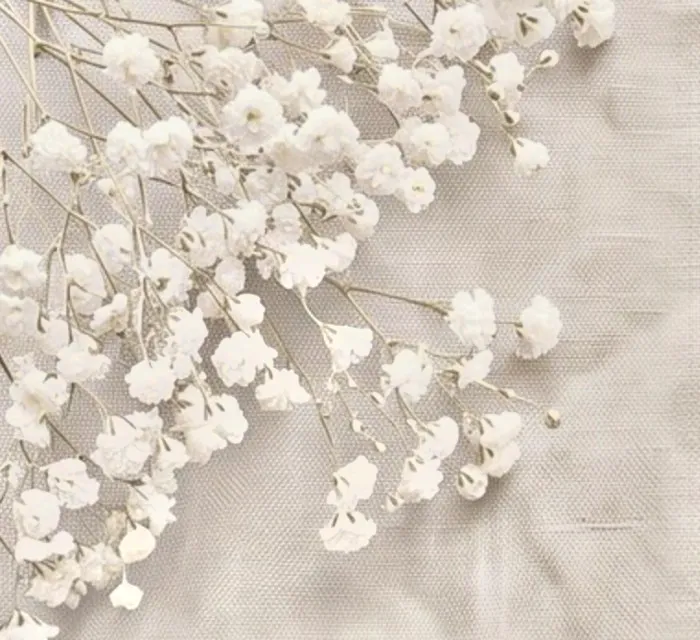
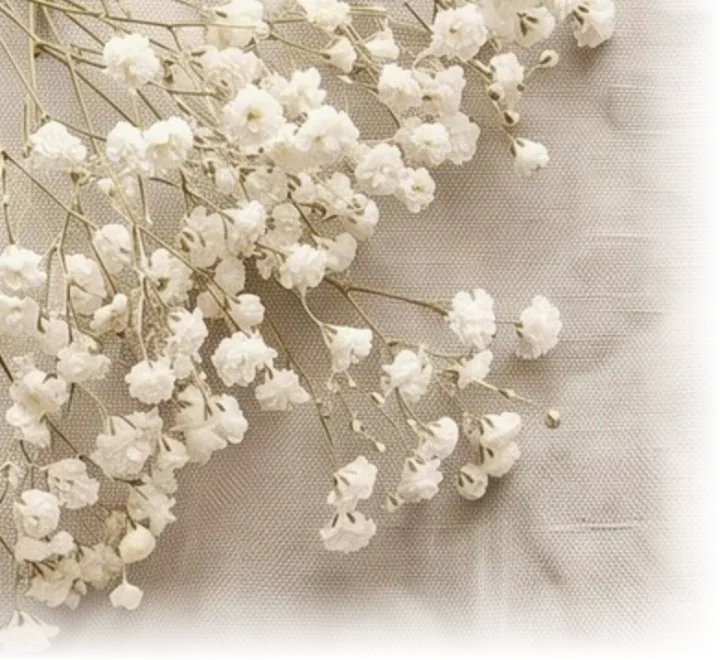
RSVP page v2: tablecloth hero only, bigger date & timer, calendar buttons, cream form on cloth grey
Claude-Session: https://claude.ai/code/session_01UUGnTPbvLskfuD8Xfb7C9e

diff --git a/src/guest-rivka.html b/src/guest-rivka.html
@@ -4,139 +4,119 @@
 <meta charset="utf-8">
 <meta name="viewport" content="width=device-width, initial-scale=1, viewport-fit=cover">
 <meta name="robots" content="noindex"><!--OG-->
-<meta name="theme-color" content="#D6CCC1">
+<meta name="theme-color" content="#C7BDB2">
 <title>מענדי ורבקה · אישור הגעה</title>
 <link rel="preconnect" href="https://fonts.googleapis.com">
 <link rel="preconnect" href="https://fonts.gstatic.com" crossorigin>
 <link rel="stylesheet" href="https://fonts.googleapis.com/css2?family=Frank+Ruhl+Libre:wght@300;400;500;700&display=swap">
-<link rel="preload" as="image" href="/img/logo.webp">
+<link rel="preload" as="image" href="/img/names.webp">
 <style>
 :root{
-  --linen:#D6CCC1;      /* בד הפשתן מההזמנה */
+  --linen:#C7BDB2;      /* המפה מההזמנה */
+  --linen-soft:#D4CBC1;
   --paper:#FAF8F4;      /* נייר ההזמנה */
-  --ink:#47332A;        /* דיו חום */
+  --cream:#F5EFE4;      /* שמנת */
+  --ink:#47332A;
   --ink-deep:#2C1F16;
   --soft:#7D6B5D;
   --line:#DCD1C4;
-  --press:#EFE9E1;
+  --press:#EDE5D9;
   --err:#9B2C2C;
   --serif:'Frank Ruhl Libre','David Libre',Georgia,serif;
 }
 *{box-sizing:border-box}
 html,body{margin:0}
 [hidden]{display:none!important}
-body{
-  font-family:var(--serif);color:var(--ink);line-height:1.6;
-  background:var(--linen) url(/img/linen.webp) center top/640px auto repeat;
-  -webkit-font-smoothing:antialiased;min-height:100vh;overflow-x:hidden;
-}
+body{font-family:var(--serif);color:var(--ink);line-height:1.6;background:var(--paper);-webkit-font-smoothing:antialiased;overflow-x:hidden}
 button,input,textarea{font-family:inherit;color:inherit}
 :focus-visible{outline:2px solid var(--ink);outline-offset:3px}
 
-/* ---------- hero ---------- */
-.hero{position:relative;padding:56px 20px 28px;text-align:center;isolation:isolate}
-.bh{position:absolute;top:14px;right:18px;font-size:14px;color:var(--ink-deep);margin:0;letter-spacing:.02em}
-.flowers{position:absolute;top:0;left:0;width:min(58vw,380px);aspect-ratio:700/640;z-index:-1;
-  background:url(/img/flowers.webp) left top/cover no-repeat;
-  -webkit-mask-image:radial-gradient(ellipse 100% 100% at 0 0,#000 55%,transparent 98%);
-          mask-image:radial-gradient(ellipse 100% 100% at 0 0,#000 55%,transparent 98%)}
-.quote{display:block;width:min(78vw,440px);height:auto;margin:clamp(70px,22vw,120px) auto 0;margin-inline-start:auto;margin-inline-end:max(0px,calc(50% - 220px));opacity:.95}
-.logo{display:block;width:min(86vw,520px);height:auto;margin:clamp(34px,9vw,60px) auto 0;
-  filter:drop-shadow(0 1px 1px rgba(92,70,54,.55)) drop-shadow(0 3px 12px rgba(92,70,54,.28))}
-.dateline{margin:18px 0 0;font-size:17px;color:var(--ink);letter-spacing:.01em}
-.dateline small{display:block;font-size:14px;color:var(--soft);margin-top:2px}
+/* ---------- hero: the tablecloth ---------- */
+.hero{position:relative;isolation:isolate;display:flex;flex-direction:column;align-items:center;justify-content:center;text-align:center;
+  padding:clamp(110px,30vw,150px) 5vw clamp(56px,12vw,100px);
+  background:var(--linen) url(/img/linen.webp) center top/clamp(420px,60vw,900px) auto repeat}
+.bh{position:absolute;top:clamp(12px,2vw,22px);right:clamp(14px,2.4vw,30px);margin:0;font-size:clamp(13px,1.4vw,18px);color:var(--ink-deep)}
+.flowers{position:absolute;top:0;left:0;width:clamp(240px,42vw,620px);aspect-ratio:720/660;z-index:-1;background:url(/img/flowers.webp) left top/contain no-repeat;pointer-events:none}
+.quote{display:block;width:clamp(240px,62vw,620px);height:auto;margin:0 auto}
+.names{display:block;width:clamp(280px,84vw,900px);height:auto;margin:clamp(26px,6vw,70px) auto 0;
+  filter:drop-shadow(0 1px 1px rgba(80,60,46,.55)) drop-shadow(0 4px 16px rgba(80,60,46,.3))}
+.date{margin:clamp(22px,5vw,56px) 0 0;font-size:clamp(28px,7.4vw,72px);font-weight:500;line-height:1.15;color:var(--ink-deep)}
+.greg{margin:clamp(4px,1vw,12px) 0 0;font-size:clamp(18px,4.4vw,36px);font-weight:300;color:var(--ink);letter-spacing:.04em}
+.count{display:flex;justify-content:center;gap:clamp(10px,2.6vw,28px);margin-top:clamp(26px,6vw,64px)}
+.count div{width:clamp(88px,26vw,190px);padding:clamp(12px,2.6vw,26px) 4px clamp(10px,2vw,20px);background:rgba(250,248,244,.62);border:1px solid rgba(255,255,255,.75);border-radius:clamp(14px,2.4vw,26px);box-shadow:0 2px 10px rgba(71,51,38,.08)}
+.count b{display:block;font-size:clamp(44px,13vw,120px);font-weight:300;line-height:1;font-variant-numeric:tabular-nums;color:var(--ink-deep)}
+.count span{display:block;margin-top:clamp(4px,1vw,10px);font-size:clamp(14px,3.6vw,24px);color:var(--soft)}
 
-.count{display:flex;justify-content:center;gap:10px;margin:22px auto 0}
-.count div{min-width:76px;padding:10px 8px 8px;background:rgba(250,248,244,.72);border:1px solid rgba(255,255,255,.7);border-radius:14px;box-shadow:0 1px 2px rgba(71,51,38,.06)}
-.count b{display:block;font-size:30px;font-weight:400;line-height:1.05;font-variant-numeric:tabular-nums}
-.count span{font-size:13px;color:var(--soft)}
+/* ---------- schedule on paper ---------- */
+.sec{padding:clamp(56px,10vw,120px) 6vw}
+.sec-in{max-width:760px;margin:0 auto;text-align:center}
+.sec h2{margin:0;font-size:clamp(30px,7vw,56px);font-weight:700;color:var(--ink-deep);line-height:1.15}
+.sec .sdate{margin:clamp(8px,1.6vw,16px) 0 0;font-size:clamp(20px,4.8vw,34px);font-weight:500}
+.sec .sgreg{margin:2px 0 0;font-size:clamp(15px,3.4vw,22px);color:var(--soft)}
+.ev{margin-top:clamp(40px,8vw,72px)}
+.ev::before{content:'';display:block;width:clamp(60px,14vw,110px);height:1px;background:var(--ink);opacity:.35;margin:0 auto clamp(40px,8vw,72px)}
+.ev h3{margin:0;font-size:clamp(22px,5.4vw,36px);font-weight:700;color:var(--ink-deep)}
+.ev .when{margin:6px 0 0;font-size:clamp(16px,3.8vw,24px)}
+.ev .time{font-size:clamp(46px,13vw,96px);font-weight:300;line-height:1.05;margin:clamp(4px,1vw,10px) 0;font-variant-numeric:tabular-nums}
+.ev .where{margin:6px 0 0;font-size:clamp(17px,4vw,26px)}
+.ev .where span{display:block;color:var(--soft);font-size:clamp(15px,3.5vw,22px)}
+.acts{display:flex;justify-content:center;gap:10px;margin-top:clamp(16px,3vw,26px);flex-wrap:wrap}
+.acts a{display:inline-flex;align-items:center;justify-content:center;gap:8px;min-height:48px;min-width:clamp(140px,36vw,200px);padding:0 20px;border-radius:999px;text-decoration:none;font-size:clamp(16px,3.6vw,19px);border:1px solid var(--ink);color:var(--ink)}
+.acts a.solid{background:var(--ink);color:var(--paper)}
+.acts svg{flex:none}
 
-/* ---------- paper cards ---------- */
-.wrap{max-width:600px;margin:0 auto;padding:8px 16px 0}
-.paper{position:relative;background:var(--paper);border-radius:6px;padding:46px 26px 40px;margin-top:22px;
-  box-shadow:0 1px 1px rgba(71,51,38,.05),0 14px 34px -12px rgba(71,51,38,.28)}
-.paper > *{position:relative;z-index:1}
-.paper::before,.paper::after{content:'';position:absolute;z-index:0;width:96px;height:88px;background:url(/img/rose.webp) center/cover no-repeat;opacity:.85;pointer-events:none}
-.paper::before{top:8px;left:8px;transform:scaleX(-1)}
-.paper::after{bottom:8px;right:8px;transform:scaleY(-1)}
-.paper h2{font-size:25px;font-weight:700;color:var(--ink-deep);text-align:center;margin:0 0 4px;letter-spacing:.01em}
-.paper .lead{text-align:center;margin:0 0 22px;color:var(--soft);font-size:16px}
-
-/* schedule */
-.ev{text-align:center;padding:0 6px}
-.ev + .ev{margin-top:26px}
-.ev + .ev::before{content:'';display:block;width:84px;height:1px;background:var(--ink);opacity:.35;margin:0 auto 26px}
-.ev h3{margin:0;font-size:20px;font-weight:700;color:var(--ink-deep)}
-.ev .when{margin:6px 0 0;font-size:16px}
-.ev .time{display:inline-block;font-size:30px;font-weight:300;line-height:1.1;margin:4px 0 2px;font-variant-numeric:tabular-nums;letter-spacing:.02em}
-.ev .where{margin:4px 0 0;font-size:16px;color:var(--ink)}
-.ev .where span{display:block;color:var(--soft);font-size:15px}
-.nav{display:flex;justify-content:center;gap:8px;margin-top:12px;flex-wrap:wrap}
-.nav a{display:inline-flex;align-items:center;min-height:40px;padding:0 16px;border:1px solid var(--line);border-radius:999px;color:var(--ink);text-decoration:none;font-size:15px;background:#fff}
-.nav a:active{background:var(--press)}
-
-/* rsvp */
-.hi{font-size:25px;font-weight:700;color:var(--ink-deep);text-align:center;margin:0}
-.sub{text-align:center;margin:2px 0 22px;color:var(--soft);font-size:16px}
-.qlab{display:block;font-size:16px;font-weight:500;margin:0 0 8px;color:var(--ink-deep)}
-.who3{display:grid;grid-template-columns:1fr 1fr;gap:8px;margin-bottom:18px}
-.opts{display:grid;grid-template-columns:repeat(3,minmax(0,1fr));gap:8px}
-@media (max-width:460px){.opts{grid-template-columns:1fr}.opt{min-height:52px}}
-.opt{min-height:54px;border:1px solid var(--line);background:#fff;border-radius:12px;font-size:17px;cursor:pointer;padding:6px 4px;line-height:1.2;transition:background-color .15s,color .15s,border-color .15s}
+/* ---------- rsvp on the cloth grey ---------- */
+.rsvp{background:var(--linen-soft);padding:clamp(56px,10vw,120px) 5vw}
+.card{max-width:640px;margin:0 auto;background:var(--cream);border-radius:clamp(18px,3vw,28px);padding:clamp(30px,6vw,56px) clamp(20px,5vw,52px);box-shadow:0 18px 44px -20px rgba(71,51,38,.35)}
+.hi{font-size:clamp(28px,6.4vw,46px);font-weight:700;color:var(--ink-deep);text-align:center;margin:0;line-height:1.2}
+.sub{text-align:center;margin:6px 0 clamp(22px,4vw,32px);color:var(--soft);font-size:clamp(16px,3.8vw,20px)}
+.qlab{display:block;font-size:clamp(16px,3.8vw,19px);font-weight:500;margin:0 0 10px;color:var(--ink-deep)}
+.who3{display:grid;grid-template-columns:1fr 1fr;gap:10px;margin-bottom:22px}
+.opts{display:grid;grid-template-columns:repeat(3,minmax(0,1fr));gap:10px}
+@media (max-width:480px){.opts{grid-template-columns:1fr}}
+.opt{min-height:56px;border:1px solid var(--line);background:#fff;border-radius:14px;font-size:clamp(17px,4vw,20px);cursor:pointer;padding:6px 8px;line-height:1.2;transition:background-color .15s,color .15s,border-color .15s}
 .opt[aria-pressed="true"]{background:var(--ink);border-color:var(--ink);color:var(--paper)}
-.opt:active{transform:scale(.98)}
-input.nm{width:100%;font-size:17px;border:1px solid var(--line);border-radius:12px;padding:14px;background:#fff;margin-bottom:18px}
+input.nm{width:100%;font-size:18px;border:1px solid var(--line);border-radius:14px;padding:15px;background:#fff;margin-bottom:22px}
 input.nm::placeholder,textarea::placeholder{color:#AA9C90}
-.ppl{display:grid;grid-template-columns:1fr 1fr;gap:10px;margin-top:16px}
-.ppl > div{background:var(--press);border-radius:14px;padding:12px 14px}
-.lab{display:block;font-size:15px;color:var(--soft);margin-bottom:6px}
+.ppl{display:grid;grid-template-columns:1fr 1fr;gap:10px;margin-top:18px}
+.ppl > div{background:var(--press);border-radius:16px;padding:12px 14px}
+.lab{display:block;font-size:16px;color:var(--soft);margin-bottom:6px}
 .step{display:flex;align-items:center;justify-content:space-between}
-.step button{width:44px;height:44px;border-radius:50%;border:1px solid var(--line);background:#fff;font-size:22px;line-height:1;cursor:pointer;color:var(--ink)}
+.step button{width:46px;height:46px;border-radius:50%;border:1px solid var(--line);background:#fff;font-size:22px;line-height:1;cursor:pointer;color:var(--ink)}
 .step button:disabled{opacity:.35;cursor:default}
-.step output{font-size:26px;min-width:2ch;text-align:center;font-variant-numeric:tabular-nums}
-label.f{display:block;margin:22px 0 8px;font-size:16px;color:var(--ink-deep)}
+.step output{font-size:28px;min-width:2ch;text-align:center;font-variant-numeric:tabular-nums}
+label.f{display:block;margin:24px 0 10px;font-size:clamp(16px,3.8vw,19px);color:var(--ink-deep)}
 label.f small,.sub small{color:var(--soft);font-weight:400}
-textarea{width:100%;font-size:16px;border:1px solid var(--line);border-radius:12px;padding:12px 14px;background:#fff;resize:vertical;min-height:84px}
-.send{width:100%;min-height:56px;margin-top:22px;border:none;border-radius:999px;background:var(--ink);color:var(--paper);font-size:19px;font-weight:500;cursor:pointer;letter-spacing:.02em}
+textarea{width:100%;font-size:17px;border:1px solid var(--line);border-radius:14px;padding:12px 14px;background:#fff;resize:vertical;min-height:90px}
+.send{width:100%;min-height:58px;margin-top:24px;border:none;border-radius:999px;background:var(--ink);color:var(--paper);font-size:20px;font-weight:500;cursor:pointer;letter-spacing:.02em}
 .send:disabled{background:#B9ACA0;cursor:default}
 .err{color:var(--err);text-align:center;min-height:1.2em;margin:10px 0 0;font-size:15px}
 .done{text-align:center;padding:6px 0}
-.ok{width:62px;height:62px;border-radius:50%;margin:0 auto 12px;display:flex;align-items:center;justify-content:center;border:1px solid var(--ink)}
-.done h3{font-size:24px;font-weight:700;margin:0 0 6px;color:var(--ink-deep)}
-.done p{margin:0;color:var(--soft);font-size:17px}
-.link{background:none;border:none;color:var(--ink);text-decoration:underline;text-underline-offset:4px;font-size:16px;margin-top:16px;cursor:pointer;min-height:44px}
+.ok{width:64px;height:64px;border-radius:50%;margin:0 auto 14px;display:flex;align-items:center;justify-content:center;border:1px solid var(--ink)}
+.done h3{font-size:clamp(24px,5.6vw,34px);font-weight:700;margin:0 0 6px;color:var(--ink-deep)}
+.done p{margin:0;color:var(--soft);font-size:18px}
+.link{background:none;border:none;color:var(--ink);text-decoration:underline;text-underline-offset:4px;font-size:17px;margin-top:16px;cursor:pointer;min-height:44px}
 
-/* invitation thumb */
-.invbtn{display:block;width:100%;margin-top:22px;border:none;padding:0;background:none;cursor:zoom-in;text-align:center}
-.invbtn img{display:block;width:100%;height:auto;border-radius:6px;box-shadow:0 14px 34px -12px rgba(71,51,38,.35)}
-.invbtn span{display:inline-block;margin-top:10px;font-size:16px;color:var(--ink);text-decoration:underline;text-underline-offset:4px}
+/* invitation + footer on paper */
+.invsec{padding:clamp(56px,10vw,110px) 6vw 0;text-align:center}
+.invbtn{display:block;width:100%;max-width:560px;margin:0 auto;border:none;padding:0;background:none;cursor:zoom-in}
+.invbtn img{display:block;width:100%;height:auto;border-radius:8px;box-shadow:0 16px 40px -16px rgba(71,51,38,.4)}
+.invbtn span{display:inline-block;margin-top:14px;font-size:clamp(16px,3.8vw,20px);color:var(--ink);text-decoration:underline;text-underline-offset:4px}
+.foot{text-align:center;padding:clamp(48px,9vw,90px) 6vw clamp(56px,10vw,100px)}
+.parents{margin:0;font-size:clamp(15px,3.6vw,19px);color:var(--soft)}
+.parents b{display:block;font-weight:500;color:var(--ink);font-size:clamp(16px,3.9vw,21px);margin-top:4px}
+.yechi{margin:clamp(24px,5vw,40px) auto 0;max-width:620px;text-wrap:balance;font-size:clamp(20px,5.4vw,34px);font-weight:700;color:var(--ink-deep);line-height:1.35}
 
-/* footer */
-.foot{position:relative;text-align:center;padding:40px 20px 64px;overflow:hidden}
-.parents{margin:0;font-size:15px;color:var(--soft)}
-.parents b{display:block;font-weight:500;color:var(--ink);font-size:16px;margin-top:4px}
-.yechi{margin:26px auto 0;max-width:460px;text-wrap:balance;font-size:clamp(18px,5vw,26px);font-weight:700;color:var(--ink-deep);line-height:1.35}
-.ribbon{position:absolute;bottom:-10px;left:-30px;width:min(44vw,240px);aspect-ratio:710/540;z-index:-1;opacity:.95;
-  background:url(/img/ribbon.webp) center/cover no-repeat;
-  -webkit-mask-image:radial-gradient(ellipse 70% 70% at 50% 55%,#000 50%,transparent 100%);
-          mask-image:radial-gradient(ellipse 70% 70% at 50% 55%,#000 50%,transparent 100%)}
-.foot{isolation:isolate}
-
-/* lightbox */
 .lb{position:fixed;inset:0;z-index:50;background:rgba(36,26,19,.92);display:flex;align-items:center;justify-content:center;padding:16px;cursor:zoom-out}
 .lb img{max-width:100%;max-height:100%;border-radius:4px}
 .lb button{position:absolute;top:calc(12px + env(safe-area-inset-top));right:12px;min-height:44px;padding:0 16px;border-radius:999px;border:none;background:rgba(255,255,255,.14);color:#fff;font-size:16px;cursor:pointer}
 
-/* entrance */
+@media (min-width:900px){.hero{min-height:100svh;padding-top:clamp(70px,8vw,120px)}}
 @media (prefers-reduced-motion:no-preference){
-  .logo{animation:rise 1.1s cubic-bezier(.2,.7,.2,1) .15s both}
-  .quote{animation:fade 1.2s ease .05s both}
-  @keyframes rise{from{opacity:0;transform:translateY(10px)}to{opacity:1;transform:none}}
+  .names{animation:rise 1.1s cubic-bezier(.2,.7,.2,1) .2s both}
+  .quote{animation:fade 1.2s ease both}
+  @keyframes rise{from{opacity:0;transform:translateY(12px)}to{opacity:1;transform:none}}
   @keyframes fade{from{opacity:0}to{opacity:1}}
-}
-@media (min-width:700px){
-  .hero{padding-top:70px}
-  .paper{padding:56px 48px 48px}
 }
 </style>
 </head>
@@ -145,50 +125,52 @@ textarea{width:100%;font-size:16px;border:1px solid var(--line);border-radius:12
   <p class="bh">ב״ה</p>
   <div class="flowers" aria-hidden="true"></div>
   <img class="quote" src="/img/quote.webp" alt="ברכה בכתב יד: צדי׳ טוב יהי׳ הבנין בנין עדי עד על יסודי התורה והמצוה בחיים מאושרים" width="1088" height="213">
-  <h1 style="margin:0"><img class="logo" src="/img/logo.webp" alt="מענדי ורבקה · י״ט טבת · בית זלטא כפר חב״ד" width="860" height="246"></h1>
-  <p class="dateline">יום שלישי, י״ט טבת ה׳תשפ״ז<small>29 בדצמבר 2026</small></p>
+  <h1 style="margin:0"><img class="names" src="/img/names.webp" alt="מענדי ורבקה" width="860" height="168"></h1>
+  <p class="date">יום שלישי, י״ט טבת ה׳תשפ״ז</p>
+  <p class="greg">29.12.2026</p>
   <div class="count" id="count" hidden aria-label="ספירה לאחור לחתונה">
     <div><b id="cd">0</b><span>ימים</span></div><div><b id="ch">0</b><span>שעות</span></div><div><b id="cm">0</b><span>דקות</span></div>
   </div>
-  <!-- fields the shared script fills; the design above is fixed -->
   <div hidden><span id="names"></span><span id="date"></span><span id="greg"></span><p id="msg"></p>
     <div id="schedBox"><div id="sched"></div></div><div id="venueBox"><b id="vn"></b><span id="va"></span><a id="waze"></a><a id="gmaps"></a></div></div>
 </header>
 
-<main class="wrap">
-  <section class="paper" aria-labelledby="schedT">
+<section class="sec" aria-labelledby="schedT">
+  <div class="sec-in">
     <h2 id="schedT">סדר האירועים</h2>
-    <p class="lead">בשעה טובה ומוצלחת</p>
+    <p class="sdate">יום שלישי, י״ט טבת ה׳תשפ״ז</p>
+    <p class="sgreg">29 בדצמבר 2026</p>
+
+    <div class="ev">
+      <h3>קבלת הפנים</h3>
+      <div class="time">16:45</div>
+      <p class="where">ישיבת ״תומכי תמימים״ ליובאוויטש<span>רח׳ טיבוביץ׳ 4, ראשון לציון</span></p>
+      <div class="acts">
+        <a class="solid" href="https://waze.com/ul?q=%D7%98%D7%99%D7%91%D7%95%D7%91%D7%99%D7%A5%204%20%D7%A8%D7%90%D7%A9%D7%95%D7%9F%20%D7%9C%D7%A6%D7%99%D7%95%D7%9F&navigate=yes" target="_blank" rel="noopener"><svg width="18" height="18" viewBox="0 0 24 24" fill="none" stroke="currentColor" stroke-width="1.6" stroke-linecap="round" stroke-linejoin="round" aria-hidden="true"><path d="M12 21s-7-6.2-7-11.5A7 7 0 0 1 19 9.5C19 14.8 12 21 12 21z"/><circle cx="12" cy="9.5" r="2.5"/></svg>ניווט ב-Waze</a>
+        <a href="/cal/kabbalat-panim.ics"><svg width="18" height="18" viewBox="0 0 24 24" fill="none" stroke="currentColor" stroke-width="1.6" stroke-linecap="round" aria-hidden="true"><rect x="3.5" y="5" width="17" height="15.5" rx="2.5"/><path d="M3.5 10h17M8 3v4M16 3v4"/></svg>שמירה ביומן</a>
+      </div>
+    </div>
+
+    <div class="ev">
+      <h3>החופה וסעודת החתונה</h3>
+      <div class="time">18:30</div>
+      <p class="where">אולמי ״בית זלטא״<span>כפר חב״ד ב׳</span></p>
+      <div class="acts">
+        <a class="solid" href="https://waze.com/ul?q=%D7%91%D7%99%D7%AA%20%D7%96%D7%9C%D7%98%D7%90%20%D7%9B%D7%A4%D7%A8%20%D7%97%D7%91%D7%93&navigate=yes" target="_blank" rel="noopener"><svg width="18" height="18" viewBox="0 0 24 24" fill="none" stroke="currentColor" stroke-width="1.6" stroke-linecap="round" stroke-linejoin="round" aria-hidden="true"><path d="M12 21s-7-6.2-7-11.5A7 7 0 0 1 19 9.5C19 14.8 12 21 12 21z"/><circle cx="12" cy="9.5" r="2.5"/></svg>ניווט ב-Waze</a>
+        <a href="/cal/chuppah.ics"><svg width="18" height="18" viewBox="0 0 24 24" fill="none" stroke="currentColor" stroke-width="1.6" stroke-linecap="round" aria-hidden="true"><rect x="3.5" y="5" width="17" height="15.5" rx="2.5"/><path d="M3.5 10h17M8 3v4M16 3v4"/></svg>שמירה ביומן</a>
+      </div>
+    </div>
 
     <div class="ev">
       <h3>העליה לתורה</h3>
       <p class="when">שבת קודש פרשת ויחי, ט״ז טבת</p>
       <p class="where">בית הכנסת ובית המדרש של הוד כ״ק אדמו״ר שליט״א מלך המשיח<span>770 איסטערן פארקוויי, ברוקלין נ.י.</span></p>
     </div>
+  </div>
+</section>
 
-    <div class="ev">
-      <h3>קבלת הפנים</h3>
-      <div class="time">16:45</div>
-      <p class="where">ישיבת ״תומכי תמימים״ ליובאוויטש<span>רח׳ טיבוביץ׳ 4, ראשון לציון</span></p>
-      <div class="nav">
-        <a href="https://waze.com/ul?q=%D7%98%D7%99%D7%91%D7%95%D7%91%D7%99%D7%A5%204%20%D7%A8%D7%90%D7%A9%D7%95%D7%9F%20%D7%9C%D7%A6%D7%99%D7%95%D7%9F&navigate=yes" target="_blank" rel="noopener">ניווט ב-Waze</a>
-        <a href="https://www.google.com/maps/search/?api=1&query=%D7%98%D7%99%D7%91%D7%95%D7%91%D7%99%D7%A5%204%20%D7%A8%D7%90%D7%A9%D7%95%D7%9F%20%D7%9C%D7%A6%D7%99%D7%95%D7%9F" target="_blank" rel="noopener">Google Maps</a>
-      </div>
-    </div>
-
-    <div class="ev">
-      <h3>החופה וסעודת החתונה</h3>
-      <p class="when">יום שלישי, י״ט טבת ה׳תשפ״ז</p>
-      <div class="time">18:30</div>
-      <p class="where">אולמי ״בית זלטא״<span>כפר חב״ד ב׳</span></p>
-      <div class="nav">
-        <a href="https://waze.com/ul?q=%D7%91%D7%99%D7%AA%20%D7%96%D7%9C%D7%98%D7%90%20%D7%9B%D7%A4%D7%A8%20%D7%97%D7%91%D7%93&navigate=yes" target="_blank" rel="noopener">ניווט ב-Waze</a>
-        <a href="https://www.google.com/maps/search/?api=1&query=%D7%91%D7%99%D7%AA%20%D7%96%D7%9C%D7%98%D7%90%20%D7%9B%D7%A4%D7%A8%20%D7%97%D7%91%D7%93" target="_blank" rel="noopener">Google Maps</a>
-      </div>
-    </div>
-  </section>
-
-  <section class="paper" aria-labelledby="hi">
+<section class="rsvp" aria-labelledby="hi">
+  <div class="card">
     <div id="form">
       <h2 class="hi" id="hi">אישור הגעה</h2>
       <p class="sub">נשמח לדעת אם תוכלו לשמוח איתנו</p>
@@ -222,13 +204,15 @@ textarea{width:100%;font-size:16px;border:1px solid var(--line);border-radius:12
       <h3 id="doneT"></h3><p id="doneP"></p>
       <button class="link" id="edit" type="button">לשינוי התשובה</button>
     </div>
-  </section>
+  </div>
+</section>
 
+<section class="invsec">
   <button class="invbtn" id="invOpen" type="button" aria-label="פתיחת ההזמנה בגדול">
     <img src="/img/invitation.webp" alt="ההזמנה לחתונה של מענדי ורבקה" loading="lazy" width="1200" height="1411">
     <span>לצפייה בהזמנה</span>
   </button>
-</main>
+</section>
 
 <footer class="foot">
   <p class="parents">מוקיריהם ומכבדיהם<b>מרדכי וחנה נמירובסקי · דורון ודיאמנט ברגר</b></p>

diff --git a/src/index.js b/src/index.js
@@ -1,14 +1,27 @@
 import RIVKA_PAGE from './guest-rivka.html';
 import IMG_LINEN from './img/linen.webp';
 import IMG_FLOWERS from './img/flowers.webp';
-import IMG_RIBBON from './img/ribbon.webp';
-import IMG_LOGO from './img/logo.webp';
+import IMG_NAMES from './img/names.webp';
 import IMG_QUOTE from './img/quote.webp';
-import IMG_ROSE from './img/rose.webp';
 import IMG_INV from './img/invitation.webp';
 import IMG_INV_JPG from './img/invitation.jpg';
-const IMAGES = { 'linen.webp': IMG_LINEN, 'flowers.webp': IMG_FLOWERS, 'ribbon.webp': IMG_RIBBON, 'logo.webp': IMG_LOGO,
-  'quote.webp': IMG_QUOTE, 'rose.webp': IMG_ROSE, 'invitation.webp': IMG_INV, 'invitation.jpg': IMG_INV_JPG };
+const IMAGES = { 'linen.webp': IMG_LINEN, 'flowers.webp': IMG_FLOWERS, 'names.webp': IMG_NAMES,
+  'quote.webp': IMG_QUOTE, 'invitation.webp': IMG_INV, 'invitation.jpg': IMG_INV_JPG };
+// קבצי יומן (שעון ישראל בחורף = UTC+2)
+const CAL = {
+  'kabbalat-panim.ics': { title: 'קבלת הפנים - מענדי ורבקה', start: '20261229T144500Z', end: '20261229T163000Z',
+    loc: 'ישיבת תומכי תמימים ליובאוויטש, רח׳ טיבוביץ׳ 4, ראשון לציון' },
+  'chuppah.ics': { title: 'החתונה של מענדי ורבקה - חופה וסעודה', start: '20261229T163000Z', end: '20261229T220000Z',
+    loc: 'אולמי בית זלטא, כפר חב״ד ב׳' },
+};
+function icsFile(key, origin) {
+  const e = CAL[key];
+  const lines = ['BEGIN:VCALENDAR', 'VERSION:2.0', 'PRODID:-//rivka-mendy//he', 'CALSCALE:GREGORIAN', 'METHOD:PUBLISH', 'BEGIN:VEVENT',
+    'UID:' + key.replace('.ics', '') + '@rivka-mendy-wedding', 'DTSTAMP:20261125T000000Z', 'DTSTART:' + e.start, 'DTEND:' + e.end,
+    'SUMMARY:' + e.title, 'LOCATION:' + e.loc, 'URL:' + origin + '/rsvp',
+    'BEGIN:VALARM', 'TRIGGER:-PT3H', 'ACTION:DISPLAY', 'DESCRIPTION:' + e.title, 'END:VALARM', 'END:VEVENT', 'END:VCALENDAR'];
+  return lines.join('\r\n') + '\r\n';
+}
 // אתר אישורי הגעה לחתונה — Cloudflare Worker + D1
 // נתיבים:
 //   /r/<token>#<details>  דף אישור ההגעה האישי של כל מוזמן
@@ -33,6 +46,10 @@ export default {
       const ph = await photosRoute(request, env, path, url);
       if (ph) return ph;
       if (path === '/app') return html(APP_HTML);
+      if (path.startsWith('/cal/') && CAL[path.slice(5)]) {
+        return new Response(icsFile(path.slice(5), url.origin), { headers: { 'content-type': 'text/calendar; charset=utf-8',
+          'content-disposition': 'attachment; filename="' + path.slice(5) + '"', 'cache-control': 'no-store' } });
+      }
       if (path.startsWith('/img/')) {
         const f = IMAGES[path.slice(5)];
         if (!f) return new Response('Not found', { status: 404 });
